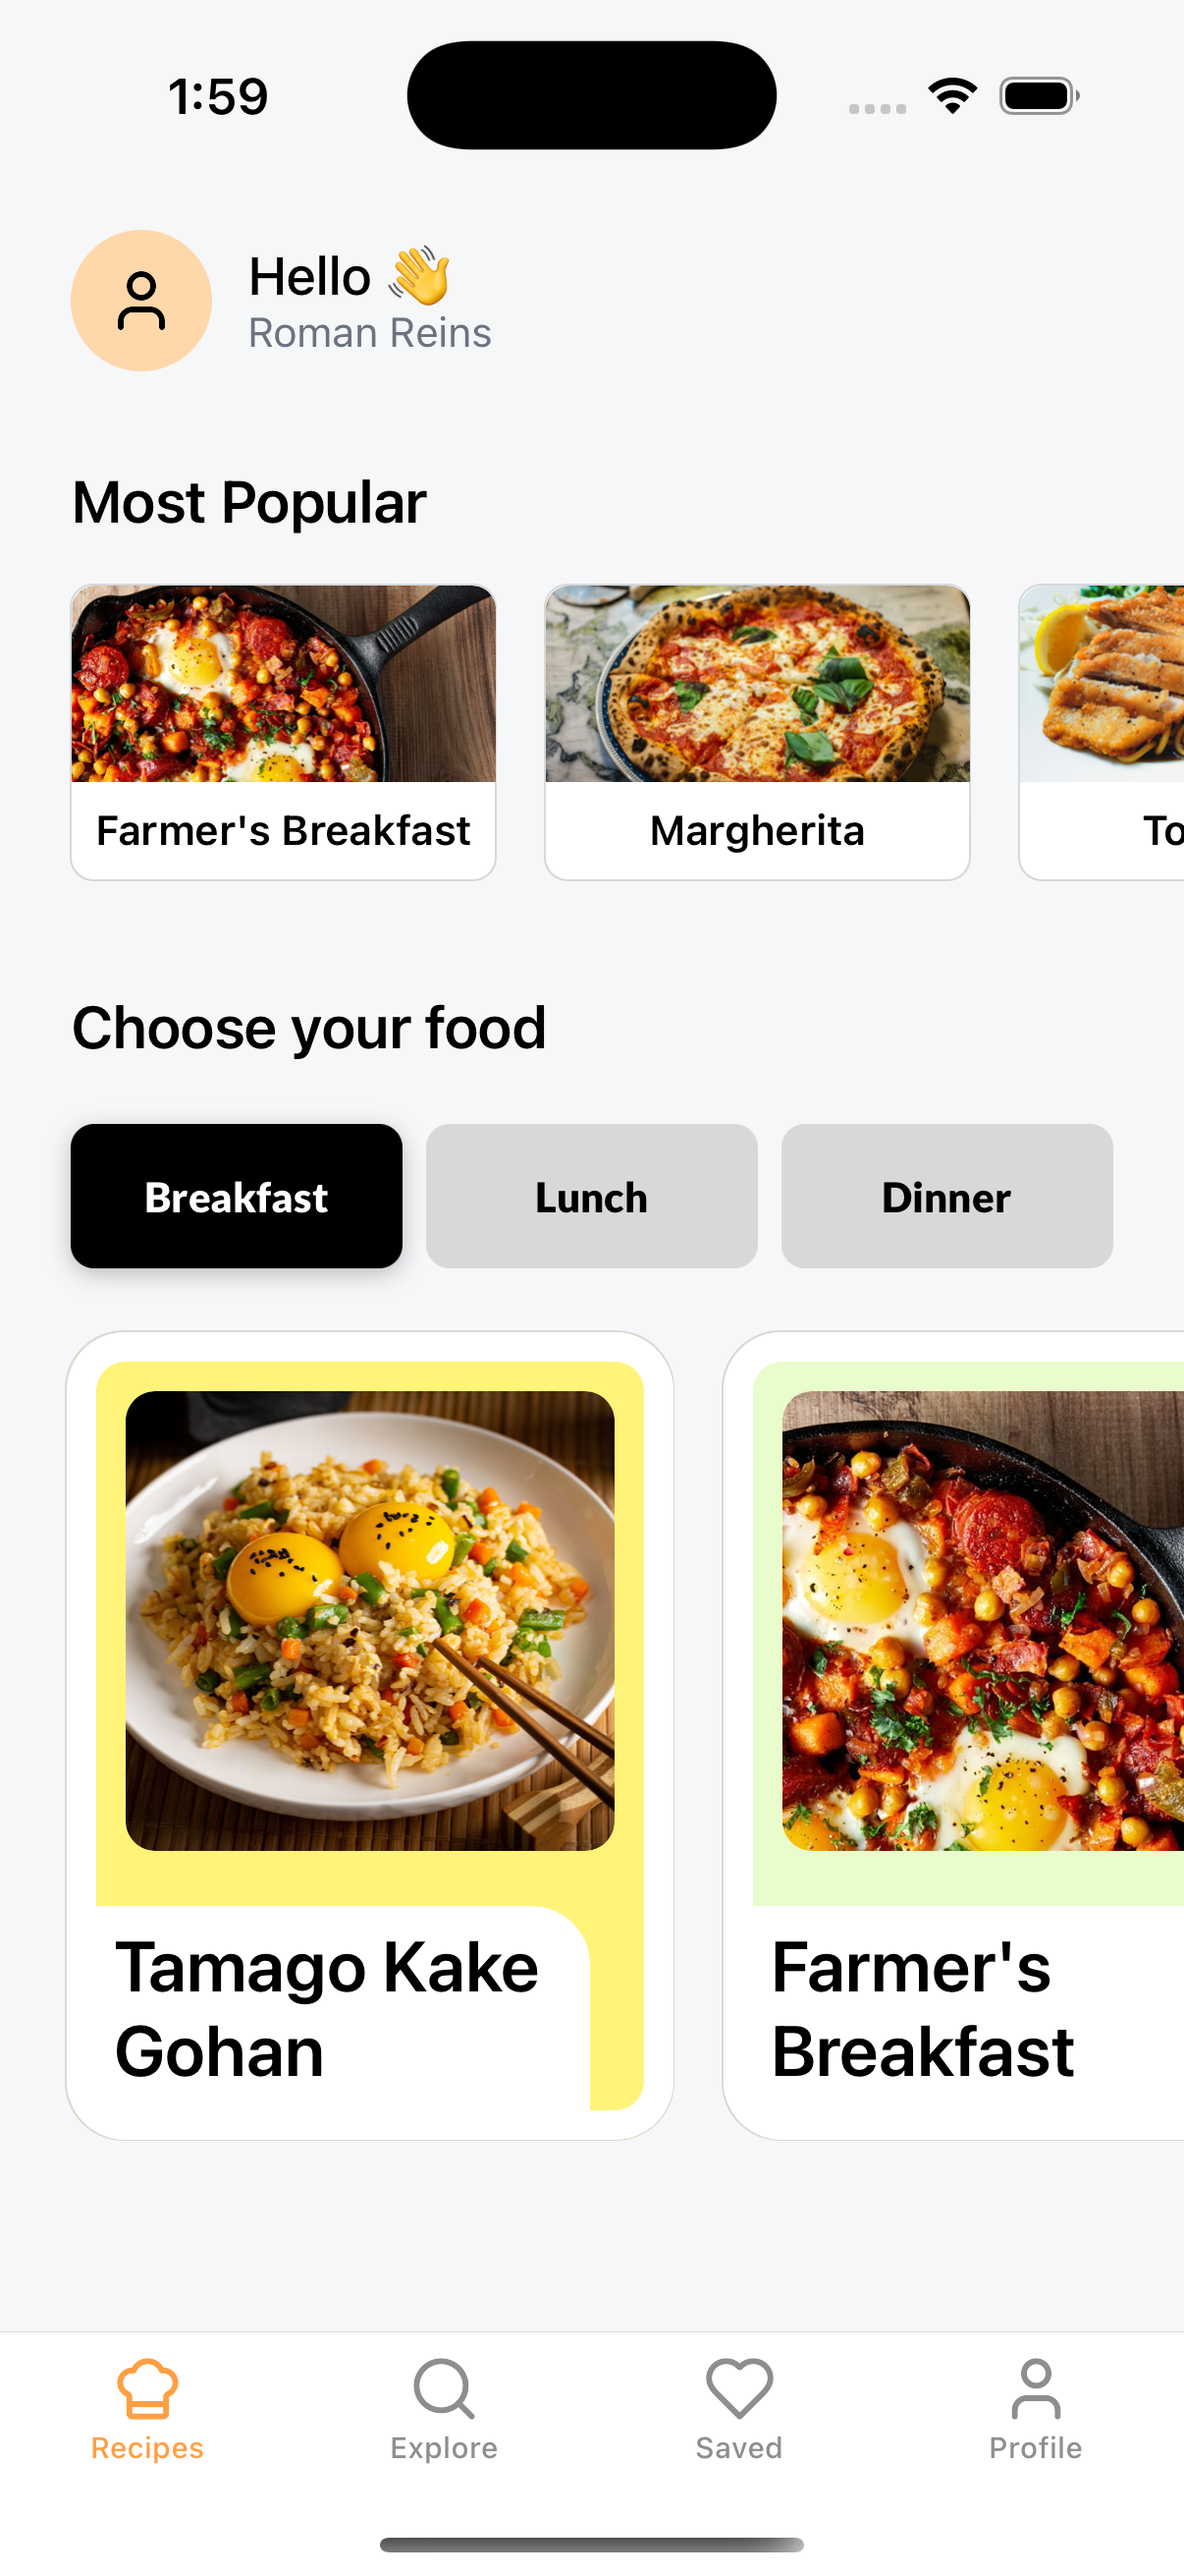
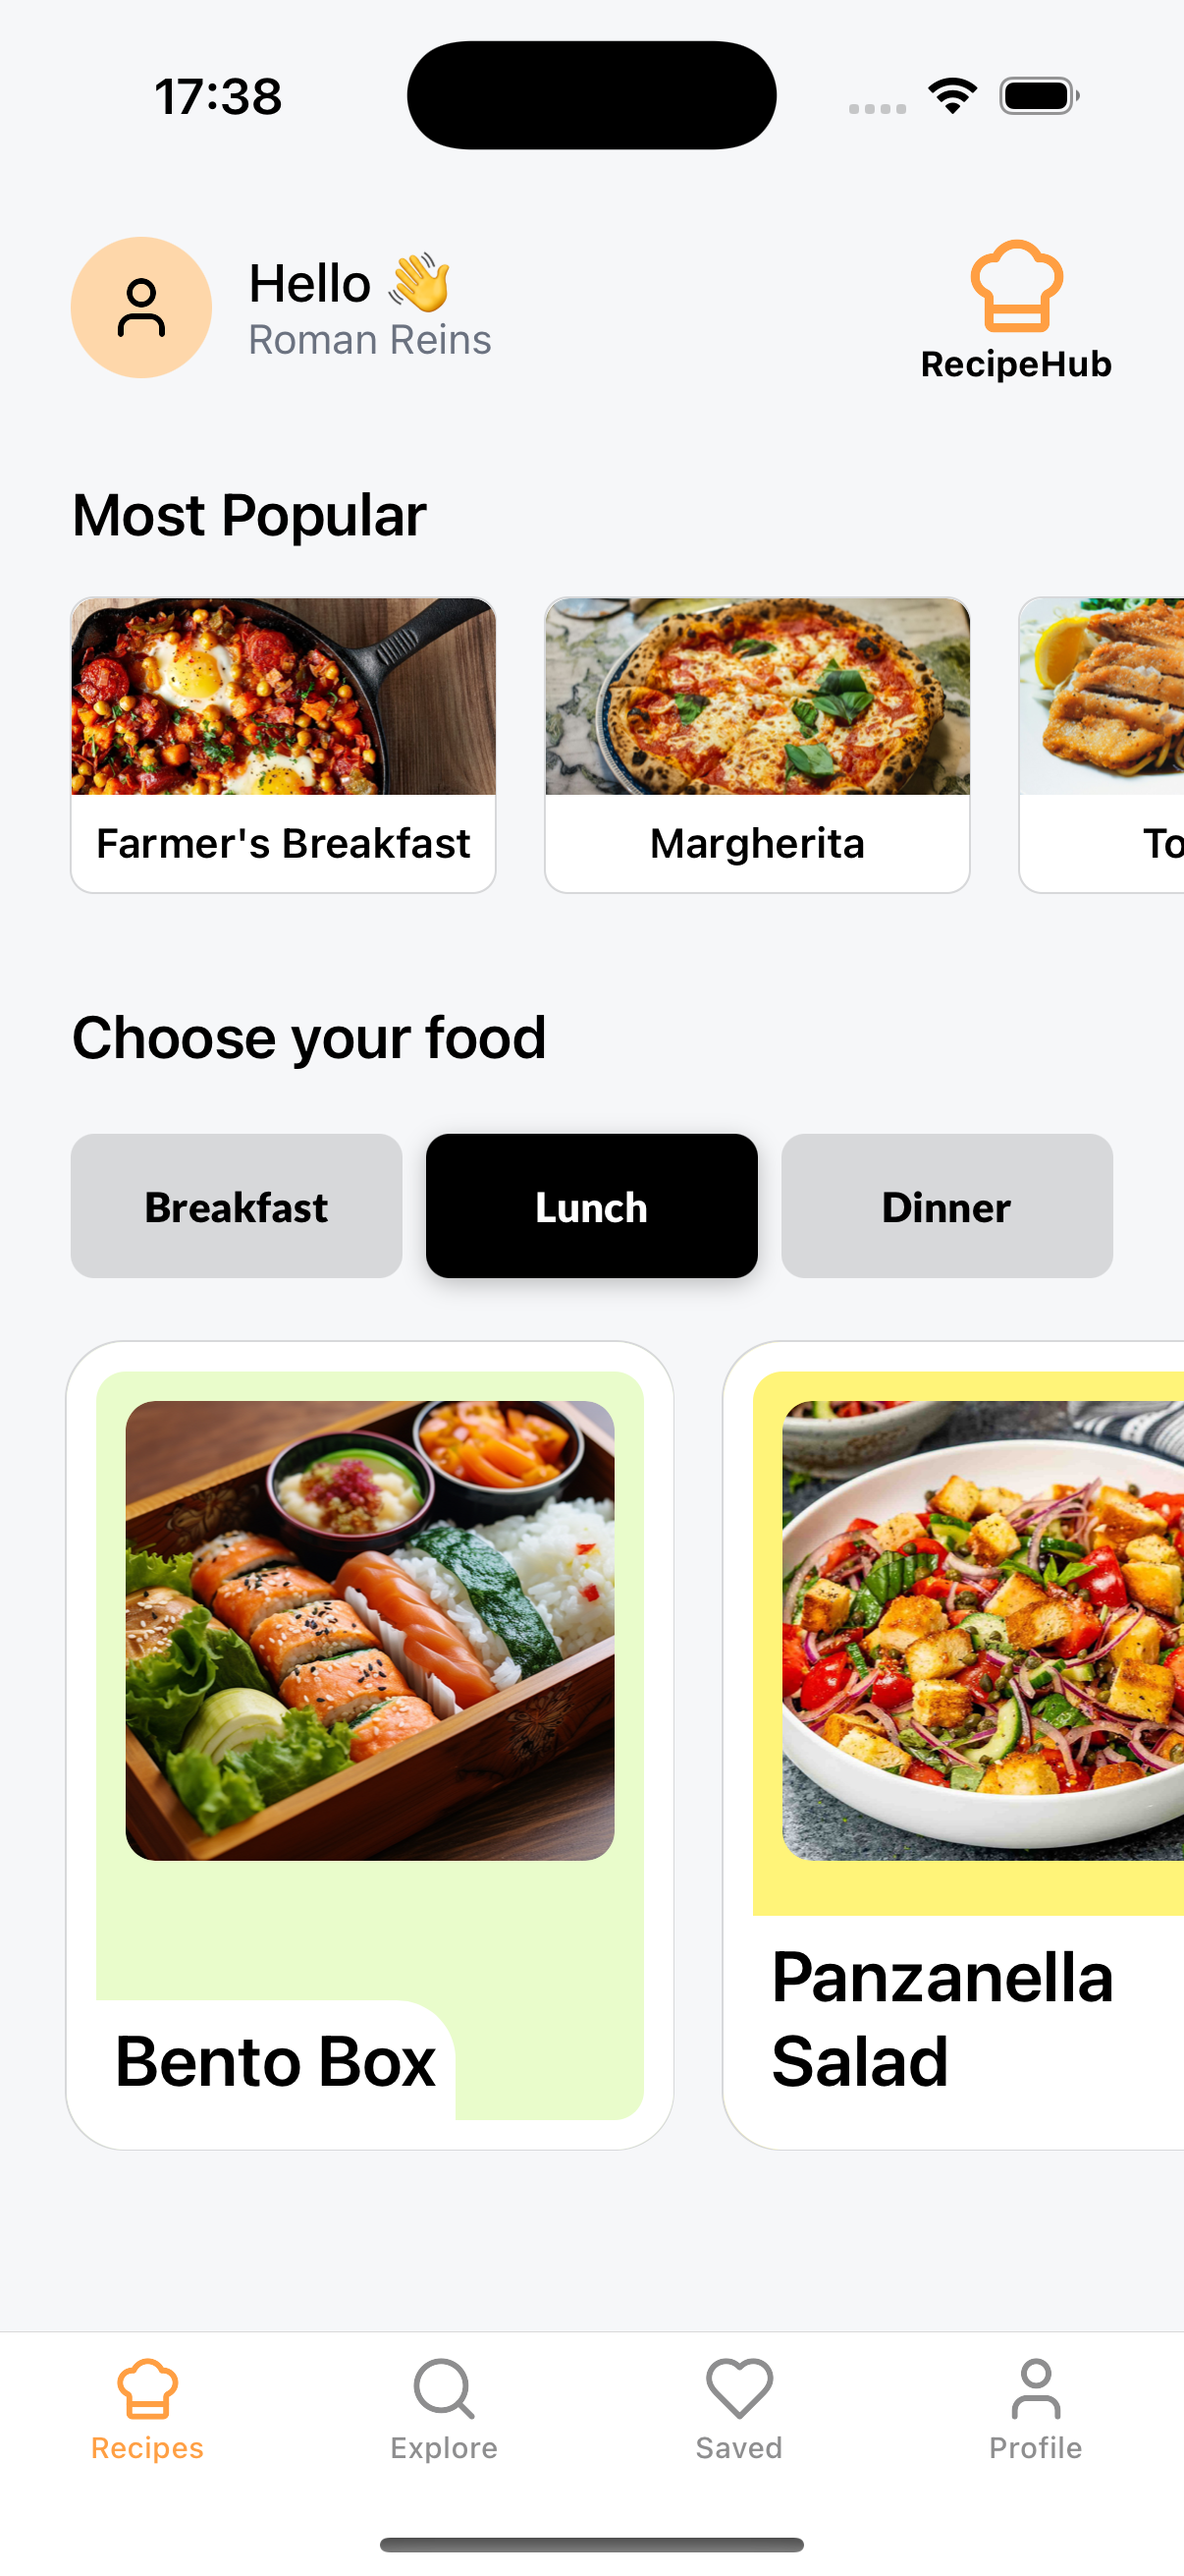
feat: add new app showcase image and update README layout

diff --git a/README.md b/README.md
@@ -23,7 +23,9 @@ This part covers navigation handling. As with previous projects, I've grasped th
 <td><img src="./assets/images/app-showcase/myapp1.png" alt="myapp1" width="300"/><td>
 <td><img src="./assets/images/app-showcase/myapp2.png" alt="myapp2" width="300"/><td>
 <td><img src="./assets/images/app-showcase/myapp3.png" alt="myapp3" width="300"/><td>
-
+</tr>
+<tr>
+<td><img src="./assets/images/app-showcase/myapp4.png" alt="myapp4" width="300"/><td>
 </tr>
 </table>
 
